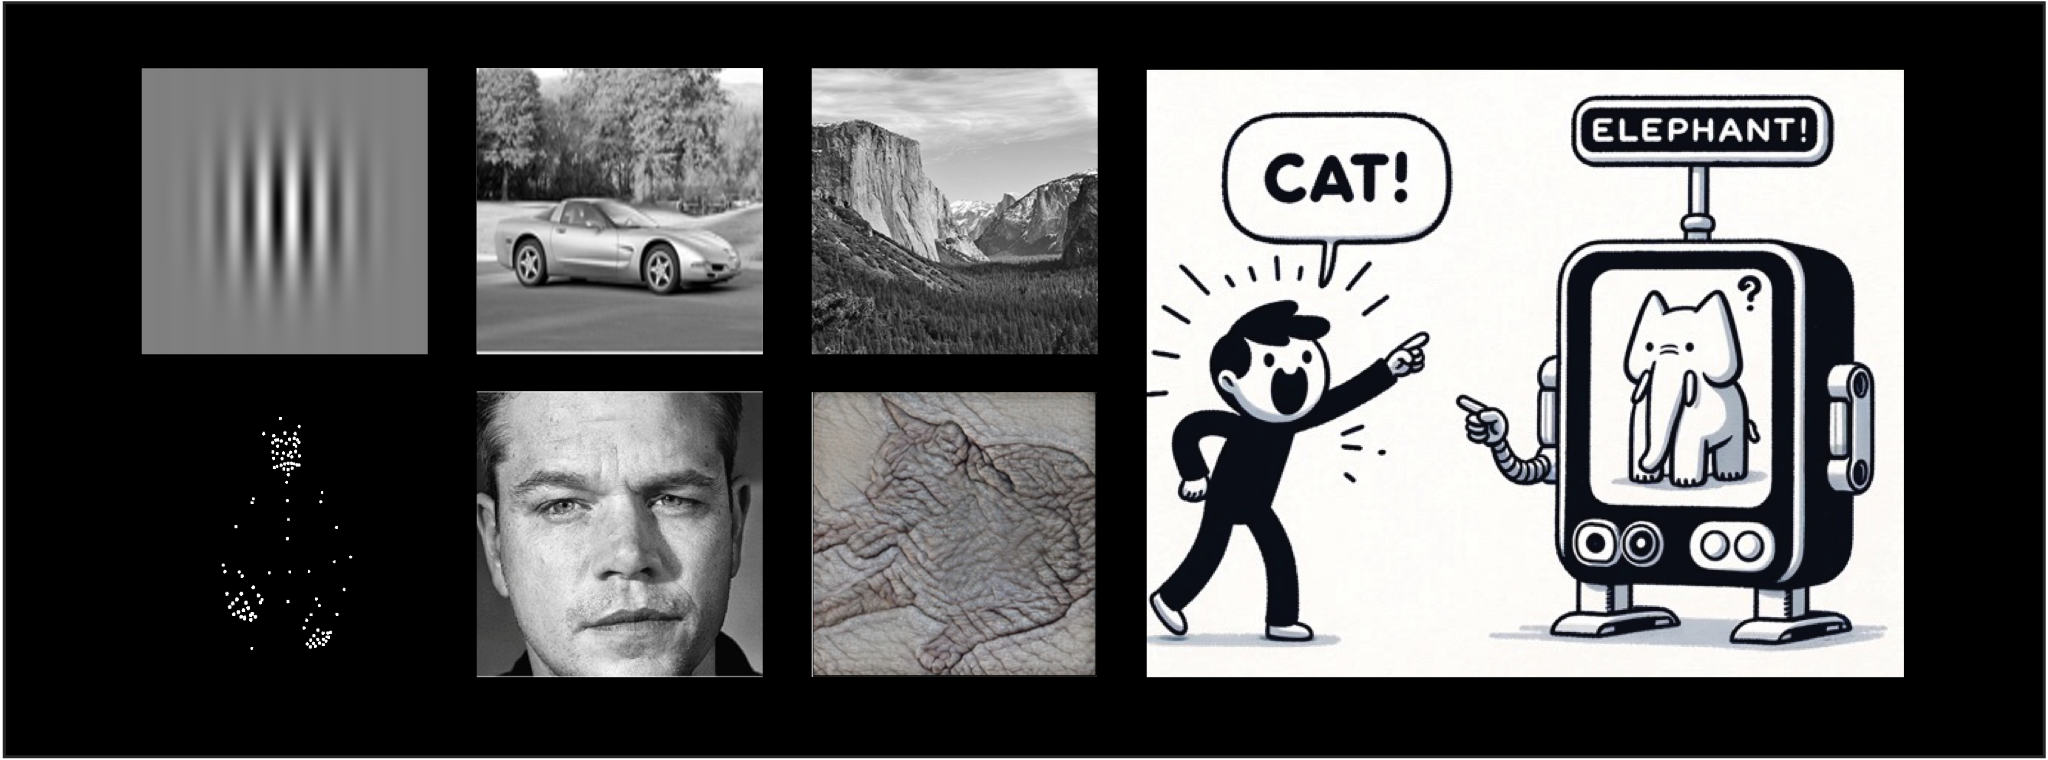
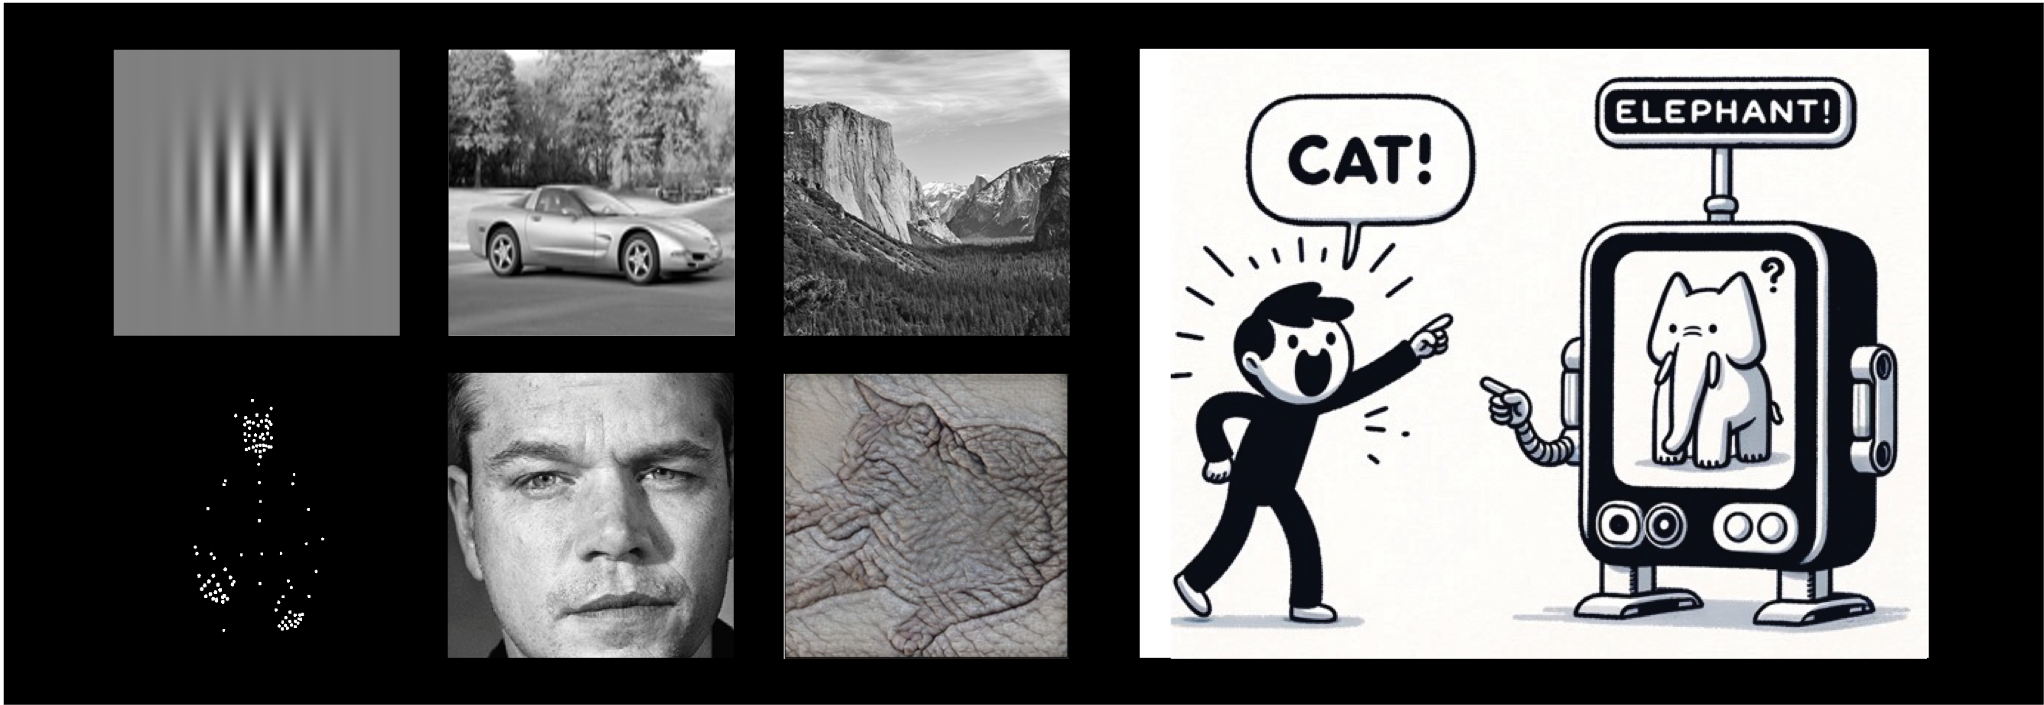
ga

diff --git a/assets/scss/custom.scss b/assets/scss/custom.scss
@@ -86,6 +86,16 @@
 }
 
 /*************************************************
+ *  Mansonry
+ **************************************************/
+
+.mansonry .img-responsive {
+  width: 22rem;
+  height: auto;
+  object-fit: cover;
+}
+
+/*************************************************
  *  Cards
  **************************************************/
 